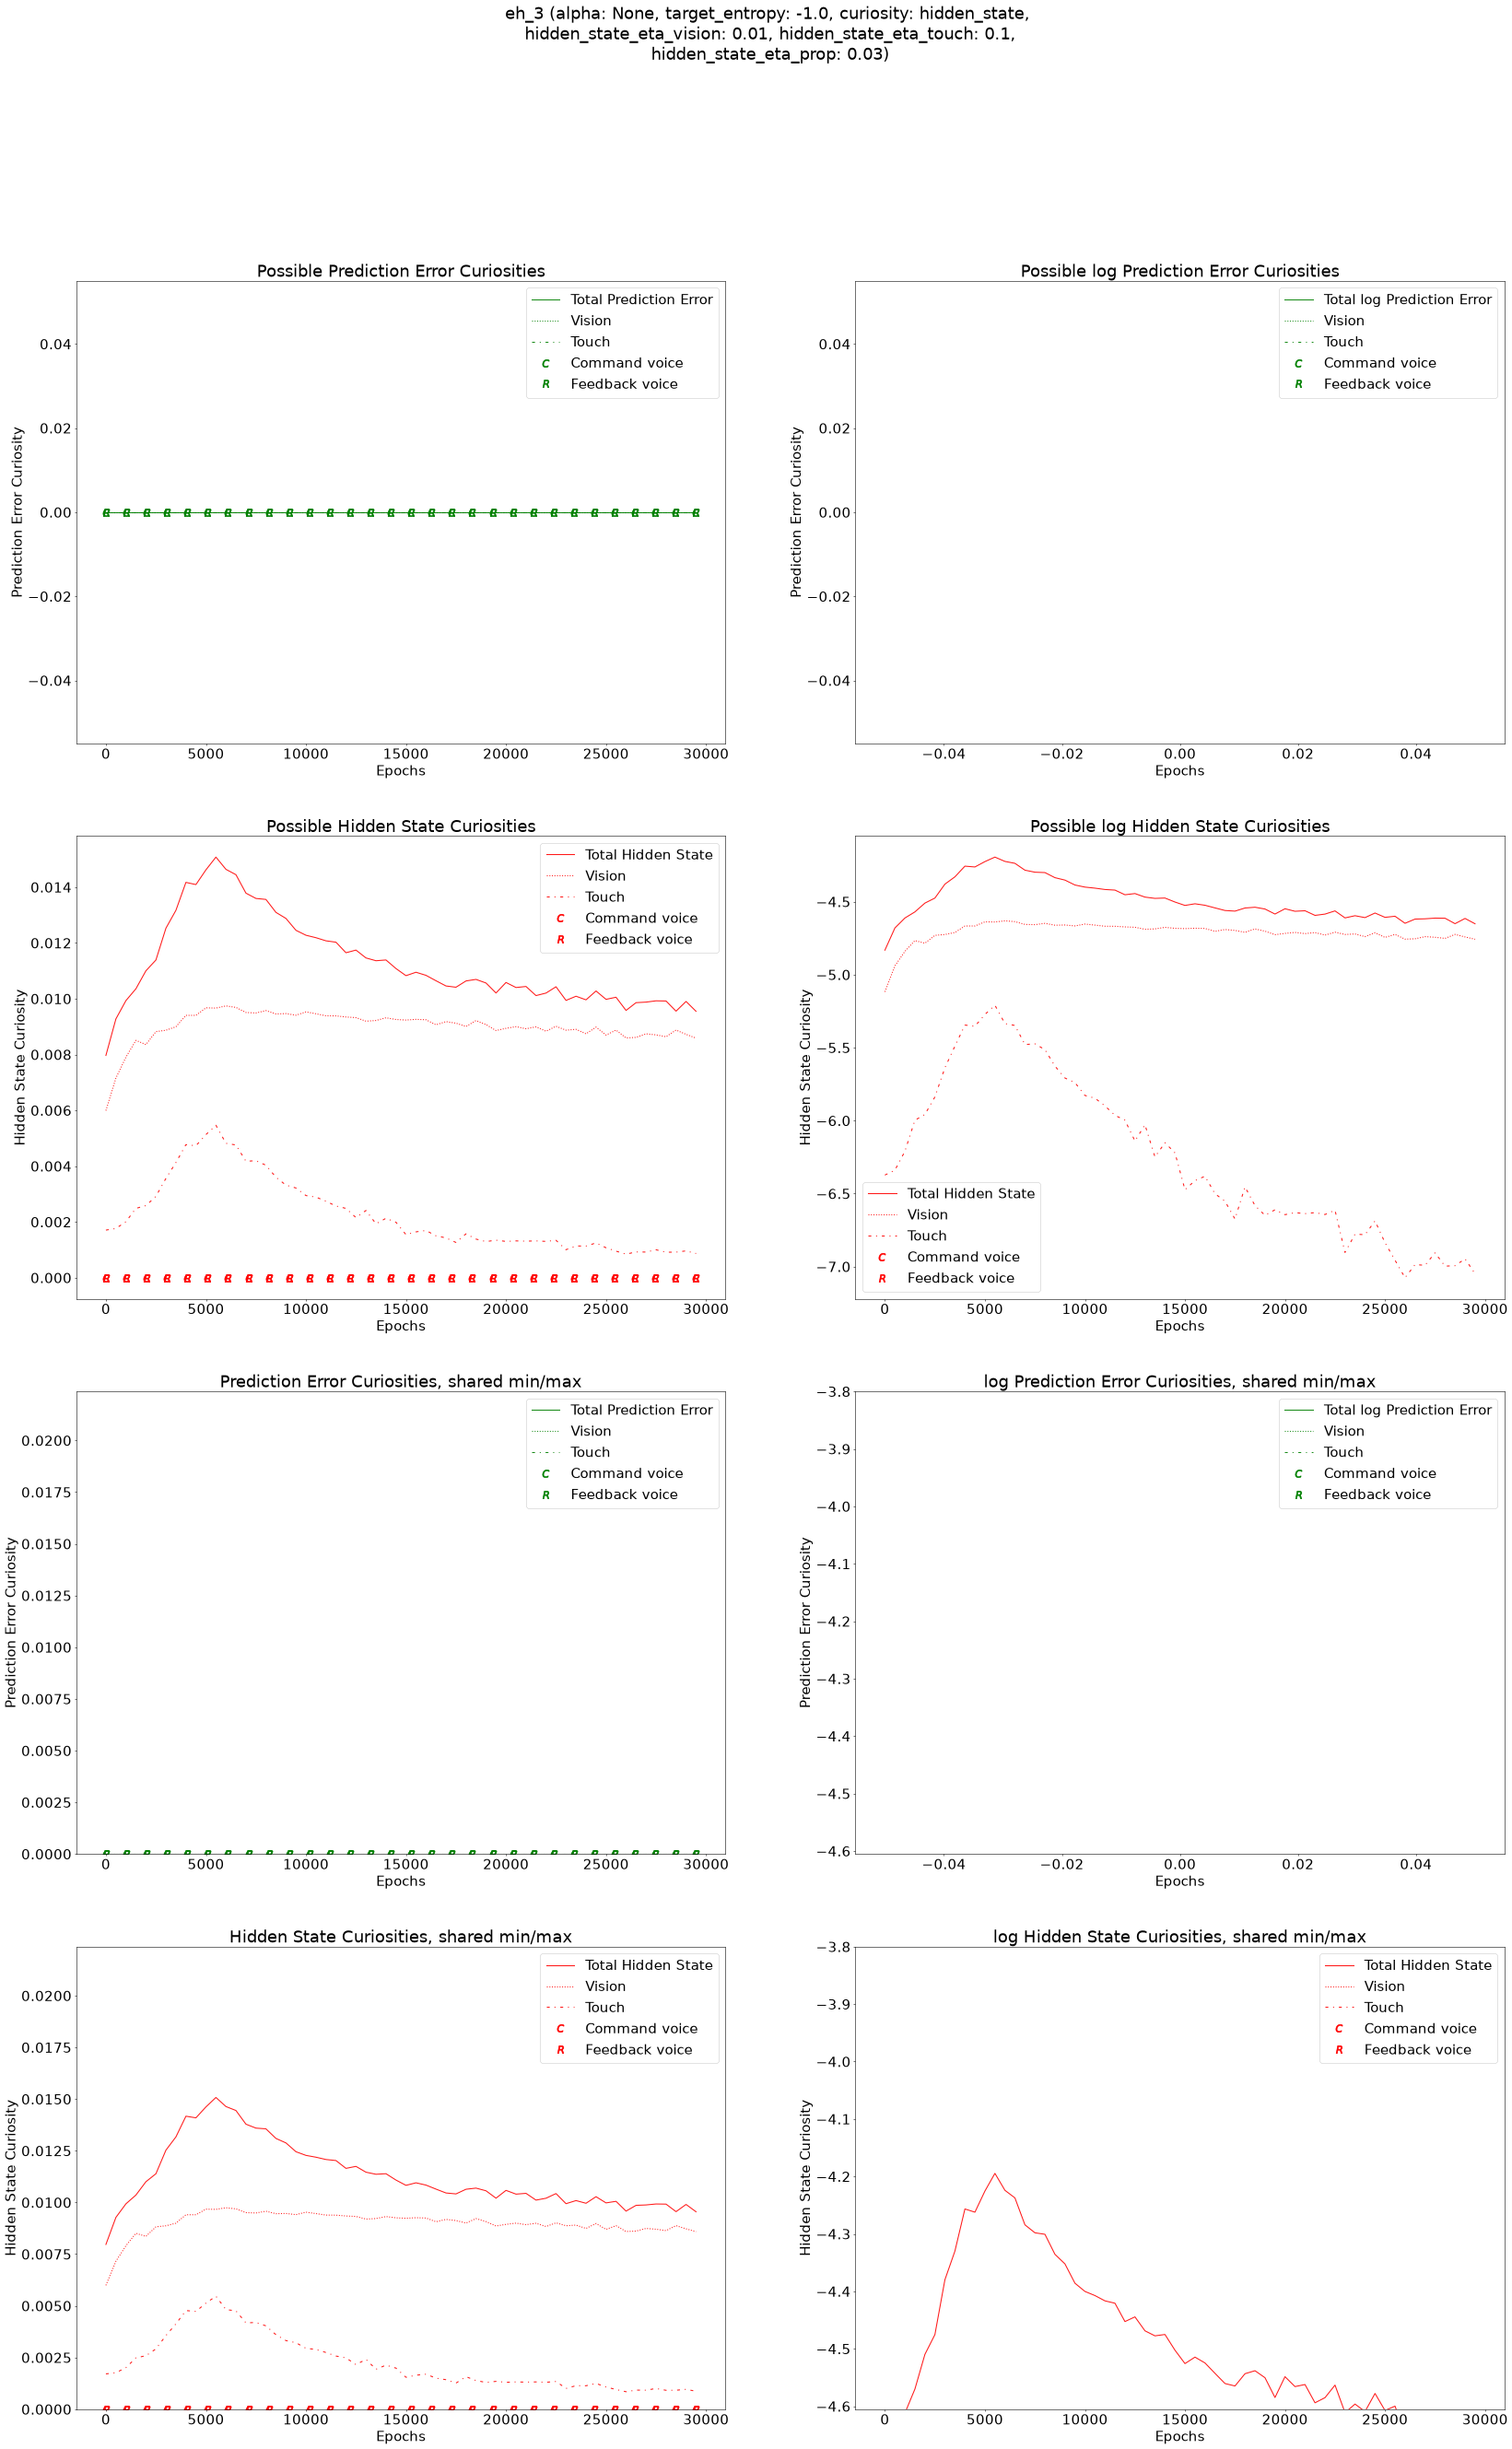
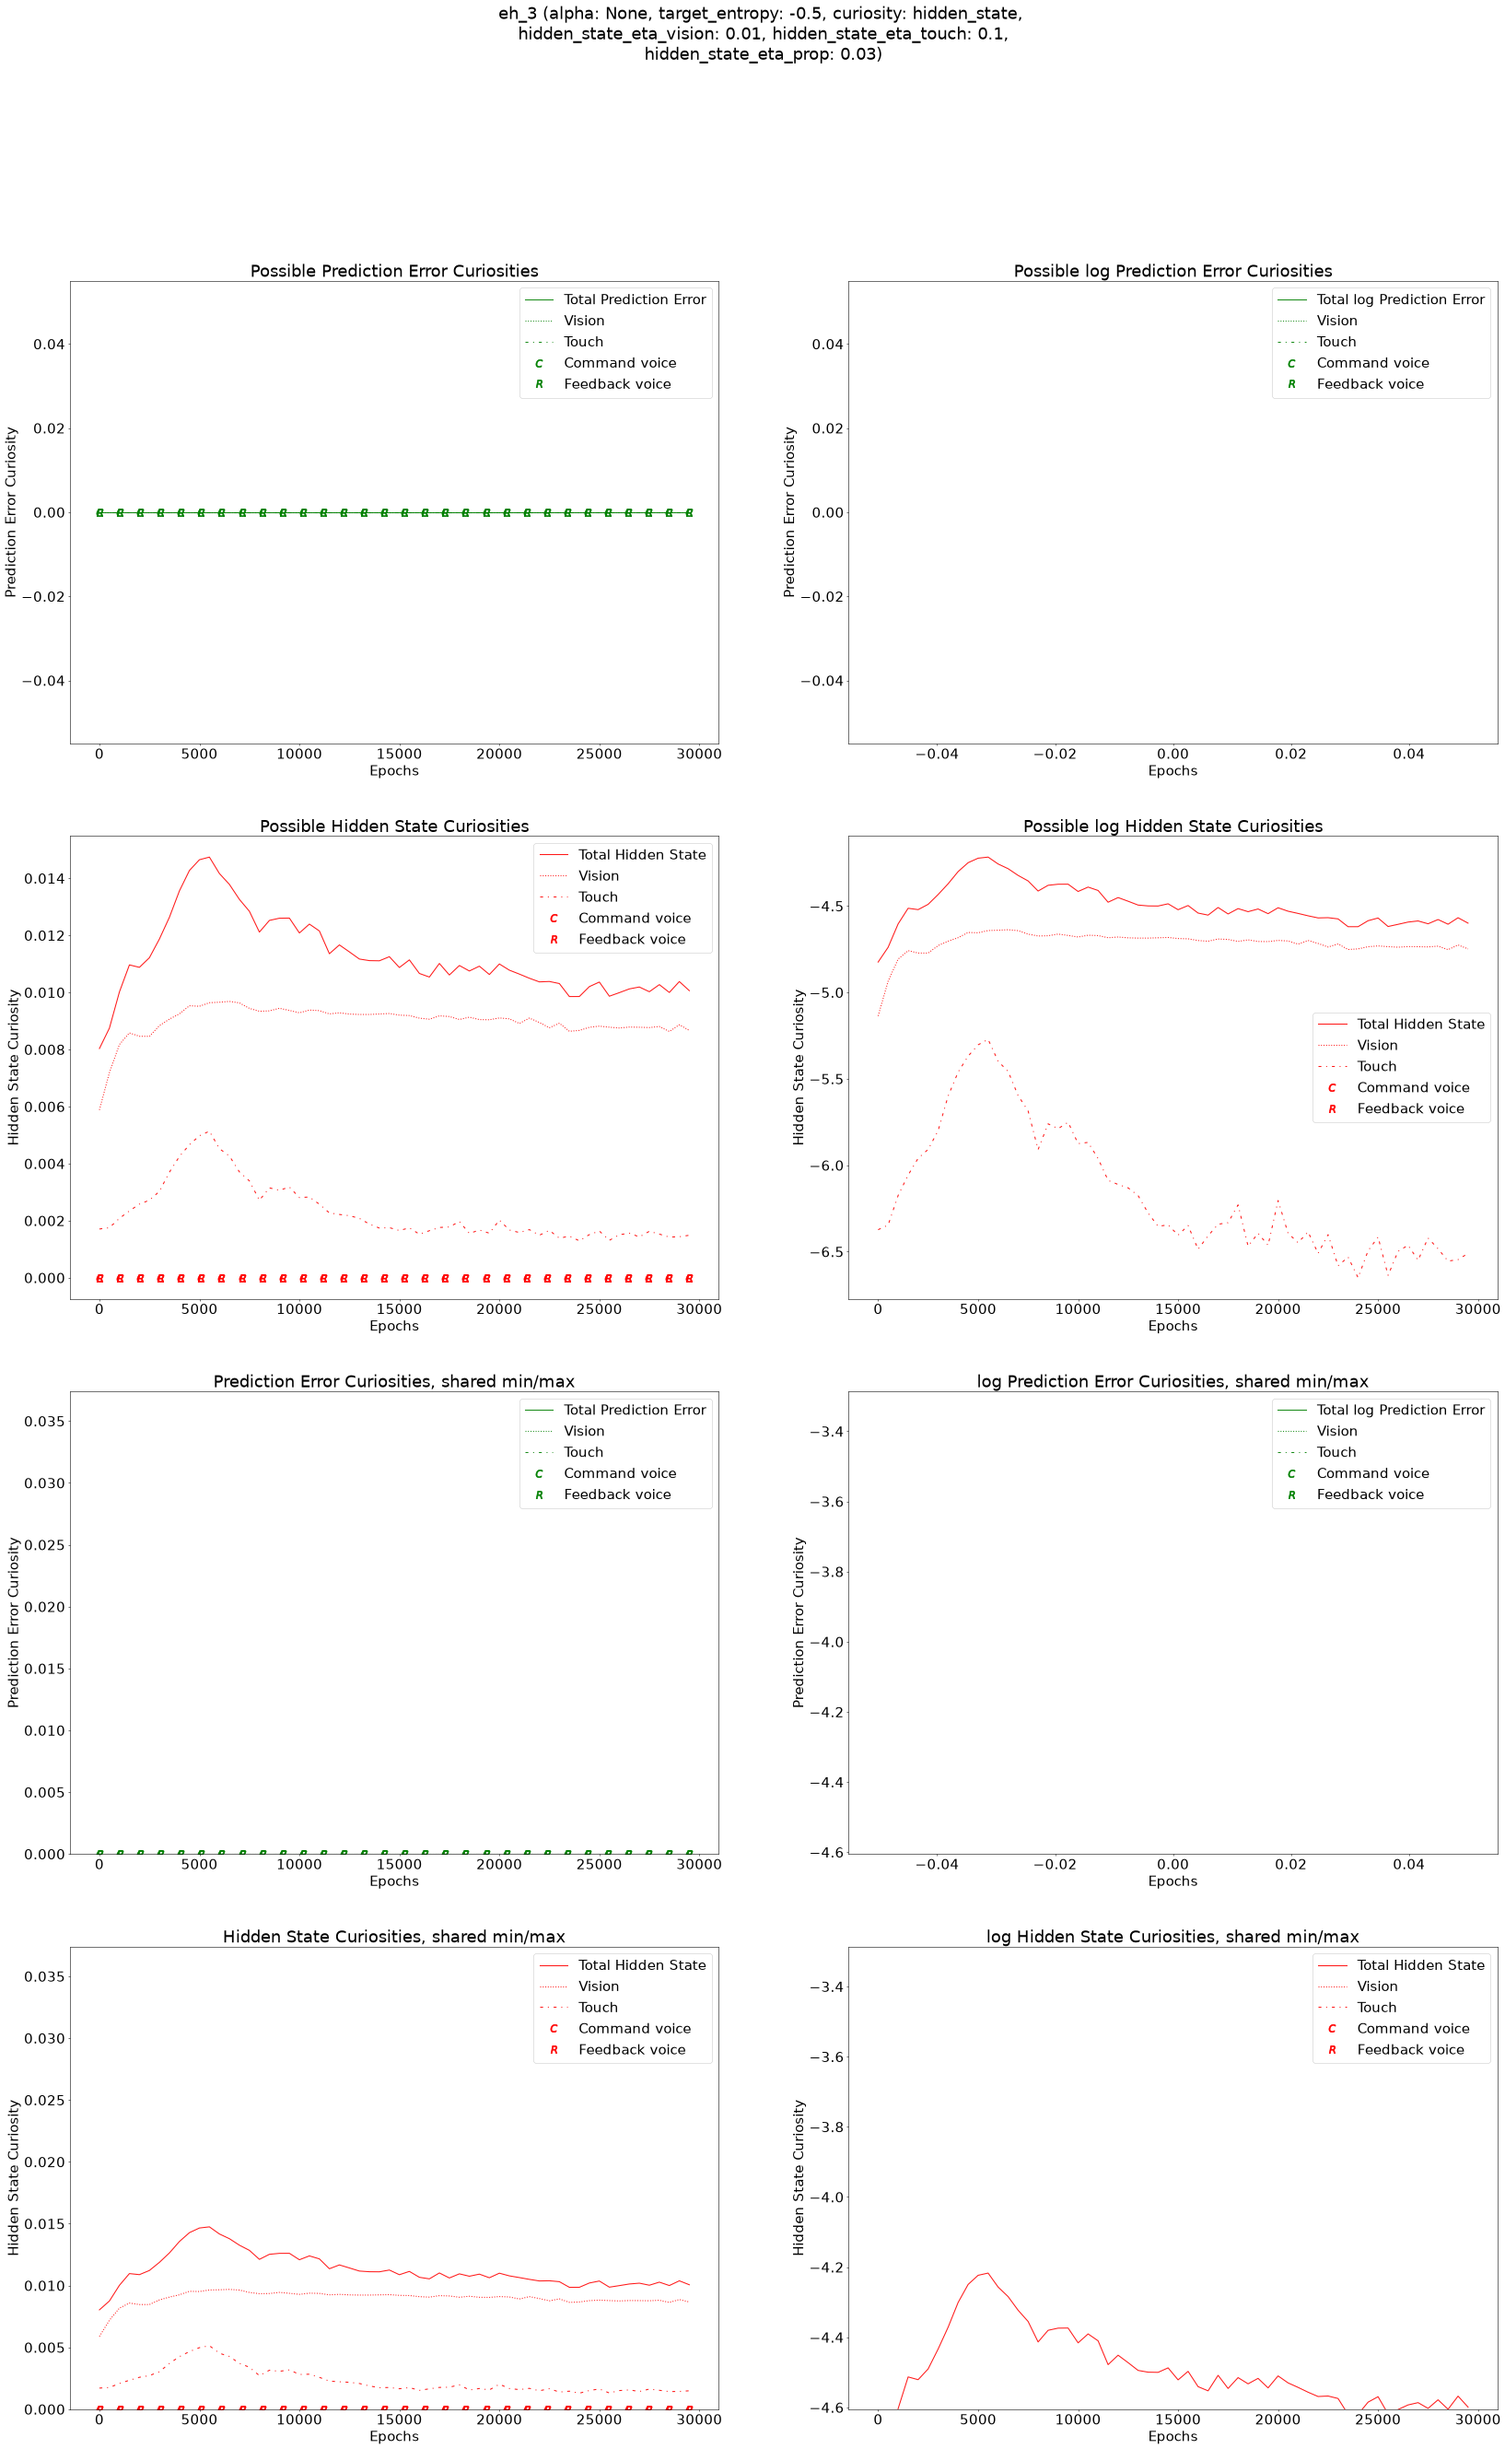
2026_11_08. Adding option for voice encoder.

diff --git a/agent.py b/agent.py
@@ -45,7 +45,7 @@ from utils import (
 from arena import Arena
 from processor import Processor
 from truck_models import (
-    Vision_Encoder, Vision_Decoder, Sensor_Encoder, Sensor_Decoder,
+    Vision_Encoder, Vision_Decoder, Sensor_Encoder, Sensor_Decoder, Shared_Builder,
     Voice_Encoder, Voice_Decoder, Wheels_Joints_Encoder, Wheels_Joints_Decoder,
     make_value_decoder)
 
@@ -171,11 +171,19 @@ class Agent:
         prop_decoder = partial(
             Sensor_Decoder, name = 'prop', output_size = args.joint_aspects)
 
+        # The command and feedback voices speak the same language ("TASK COLOR SHAPE"). With
+        # shared_voice_encoder, one encoder reads both: the same sentence gets the same encoding
+        # whichever voice said it, and every sentence trains the same weights.
+        make_voice_encoder = partial(
+            Voice_Encoder, max_voice_len = args.max_voice_len, voice_shape = args.voice_shape,
+            output_size = args.voice_encode_size, char_encode_size = args.char_encode_size,
+            hidden_size = args.hidden_size, dropout = args.dropout)
+        shared_voice_encoder = Shared_Builder(make_voice_encoder) if args.shared_voice_encoder else None
+
         def voice_encoder(name):
-            return partial(
-                Voice_Encoder, name = name, max_voice_len = args.max_voice_len, voice_shape = args.voice_shape,
-                output_size = args.voice_encode_size, char_encode_size = args.char_encode_size,
-                hidden_size = args.hidden_size, dropout = args.dropout)
+            if shared_voice_encoder is not None:
+                return partial(shared_voice_encoder, name = name)
+            return partial(make_voice_encoder, name = name)
 
         def voice_decoder(name):
             return partial(

diff --git a/truck_models.py b/truck_models.py
@@ -263,6 +263,47 @@ class Voice_Decoder(Shape_to_Shape_Model):
 
 
 #------------------
+# Sharing one module between several names (e.g. one voice encoder for the command and
+# feedback voices). The package files each module under its .name, so each name gets a
+# thin Shared_Module around the same core: the parameters exist once, and both train them.
+# Shared_Builder goes where a class would; it builds the core on its first call.
+#------------------
+
+class Shared_Module(Shape_to_Shape_Model):
+
+    def __init__(self, name, core, verbose = False):
+        super().__init__(
+            name = name,
+            input_shape = core.input_shape,
+            output_shape = core.output_shape,
+            arg_dict = {'core' : core},
+            verbose = verbose)
+
+    def build_model(self, arg_dict):
+        self.core = arg_dict['core']
+
+    def forward(self, value):
+        return self.core(value)
+
+    def loss_func(self, predicted_values, target_values):
+        return self.core.loss_func(predicted_values, target_values)
+
+
+
+class Shared_Builder:
+
+    def __init__(self, make):
+        self.make = make            # A class, or a partial of one.
+        self.core = None
+
+    def __call__(self, name, verbose = False, **kwargs):
+        if self.core is None:
+            self.core = self.make(name = f'shared_{name}', verbose = verbose, **kwargs)
+        return Shared_Module(name, self.core, verbose = verbose)
+
+
+
+#------------------
 # Actions: wheels and joints, (wheels_joints_shape,) in [-1, 1].
 #------------------
 

diff --git a/utils.py b/utils.py
@@ -900,6 +900,8 @@ parser.add_argument('--min_joint_2_angle',              type=float,         defa
                     help='Min pitch angle.')
 parser.add_argument('--max_joint_2_angle',              type=float,         default = 0,
                     help='Max pitch angle.')
+parser.add_argument('--shared_voice_encoder',           type=literal,       default = False,
+                    help='Should the command voice and feedback voice share one encoder?')
 
 
 

diff --git a/bash/slurmcraft.py b/bash/slurmcraft.py
@@ -85,7 +85,6 @@ def add_this(name, args):
 # Agents with entropy.
 add_this('e',   {
     'alpha' : 'None', 
-    'action_cost' : [0, .1],
     'target_entropy' : [-2, -1, -.5]})    
 
 
@@ -99,6 +98,8 @@ add_this('h',   {
     'hidden_state_eta_feedback_voice' : [0, .03]})    
 
 
+
+add_this('v', {'shared_voice_encoder' : True})
 
 
 add_this('quick',   {

diff --git a/plotting.py b/plotting.py
@@ -27,7 +27,7 @@ dpi = 50
 # to the raw wins_* / gen_wins_* lists, so they override whatever window the agents
 # used when they saved their rolled_* lists (older jobs saved with window_size=1).
 WIN_ROLLING_WINDOW = 500
-GEN_WIN_ROLLING_WINDOW = 500
+GEN_WIN_ROLLING_WINDOW = 100
 EXCEPTION_ROLLING_WINDOW = 3000
 
 
